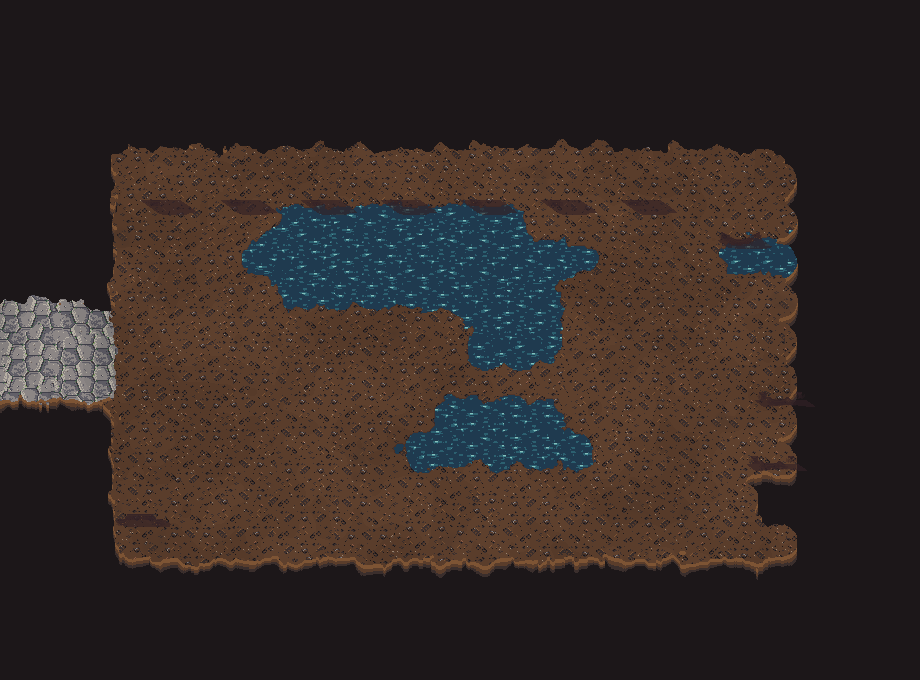
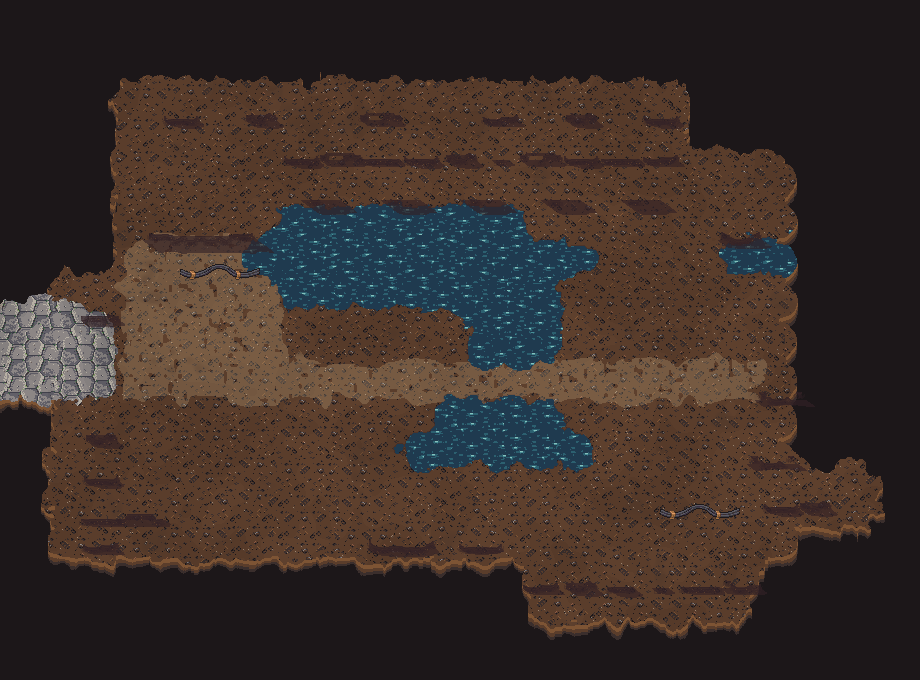
Bake the Emberwatch power yard board
Claude-Session: https://claude.ai/code/session_01H8JDTPYztrZvUL5HBCK6eR

diff --git a/docs/art/prompts/maps/emberwatch_power_yard.md b/docs/art/prompts/maps/emberwatch_power_yard.md
@@ -8,7 +8,7 @@
 
 **Layout** `emberwatch_power_yard-layout.png` beside this file: the tile grid as flat colour blocks at 32 px a tile, with the grid drawn. Hand it to the generator as the composition reference (image-to-image or a structure control) at a strength that keeps every edge where it is; upscale it to the delivery size first so the generator does not invent a border.
 
-**Palette** hue anchors from the game's own ground (`src/render/palettes.ts`): wall `#3a352f`, wood `#6b4f33`, water deep `#1f4a5e`, dirt `#b39064`, road `#b39064`, still water `#3e8fb0`. The painting replaces those tones outright, so lighter and more saturated is fine; stay in the same families so the effects and the parchment HUD still read over it.
+**Palette** hue anchors from the game's own ground (`src/render/palettes.ts`): wall `#3a352f`, grass `#6f9e4c`, dirt `#b39064`, wood `#6b4f33`, water deep `#1f4a5e`, road `#b39064`, still water `#3e8fb0`. The painting replaces those tones outright, so lighter and more saturated is fine; stay in the same families so the effects and the parchment HUD still read over it.
 
 ## Where
 
@@ -20,29 +20,30 @@ The power yard at Emberwatch, where the live line comes in.
 
 - Road (2 tiles): a 1×2 block at column 0, rows 5–6 (middle left).
 - Still water (34 tiles): 24 tiles (the centre), row 2: columns 5–10; row 3: columns 4–12; row 4: columns 5–11; row 5: columns 10–11; 8 tiles (the centre), row 7: columns 9–11; row 8: columns 8–12; a 2×1 block at columns 16–17, row 3 (top right).
-- Timber walls (19 tiles): a 14×1 block at columns 1–14, row 1 (top centre); a 1×5 block at column 17, rows 4–8 (middle right).
-- Stone walls (64 tiles): 64 tiles (the centre), rows 0 and 11: columns 0–18; rows 1–2: columns 0 and 15–18; rows 3–4, 7–8 and 10: columns 0 and 18; rows 5–6: column 18; row 9: columns 0–1 and 17–18.
-- Open ground everywhere else: bare earth (109 tiles).
+- Trees (12 tiles): a 4×3 block at columns 1–4, rows 0–2 (top left).
+- Timber walls (15 tiles): a 10×1 block at columns 5–14, row 1 (top centre); a 1×5 block at column 17, rows 4–8 (middle right).
+- Stone walls (64 tiles): 59 tiles (the centre), row 0: columns 5–18; rows 1–2: columns 15–18; rows 3–6: column 18; rows 7–8: columns 0 and 18; row 9: columns 0–1 and 17–18; row 10: columns 0, 7–10 and 18; row 11: columns 0–18; a 1×5 block at column 0, rows 0–4 (top left).
+- Open ground everywhere else: bare earth (101 tiles).
 - The party enters from the left, standing at (1, 3), (3, 4), (1, 5), (3, 6), (1, 7), (3, 8); enemies come from the right. Paint nothing there that would read as an object to walk round.
 
 The rows as the rules read them:
 
 ```
-###################
-#FFFFFFFFFFFFFFWWW#
-#....~~~~~~....WWW#
+#UUUUdddddddddd####
+#UUUUFFFFFFFFFFWWW#
+#UUUU~~~~~~....WWW#
 #...~~~~~~~~~...~~#
-#....~~~~~~~.....F#
+d....~~~~~~~.....F#
 =.........~~.....F#
 =................F#
-#........~~~.....F#
-#.......~~~~~....F#
-#d...............##
-#.................#
-###################
+d........~~~.....F#
+d.......~~~~~....F#
+dd...............dd
+d......dddd.......#
+###########dddddd##
 ```
 
-Legend: `#` stone walls; `F` timber walls; `W` stone walls; `.` bare earth; `~` still water; `=` road; `d` stone walls.
+Legend: `#` stone walls; `U` trees; `d` stone walls; `F` timber walls; `W` stone walls; `~` still water; `.` bare earth; `=` road.
 
 ## Prompt
 
